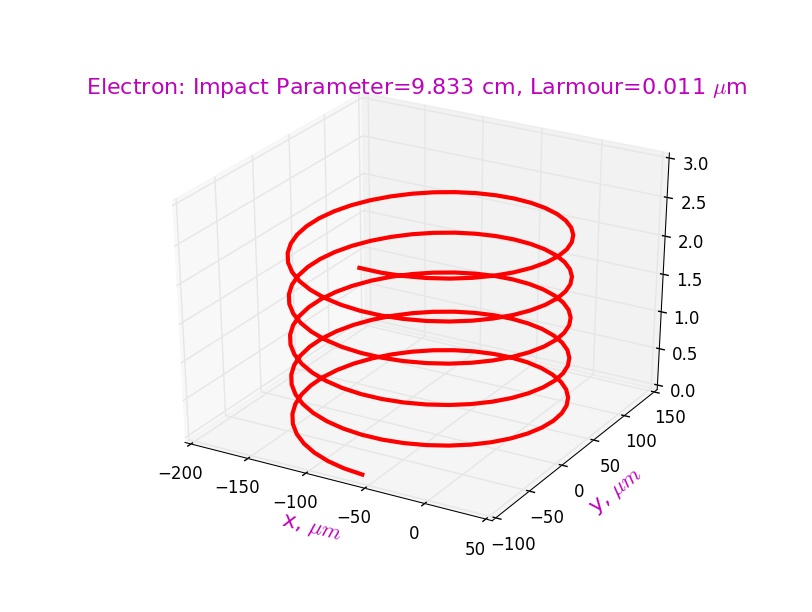
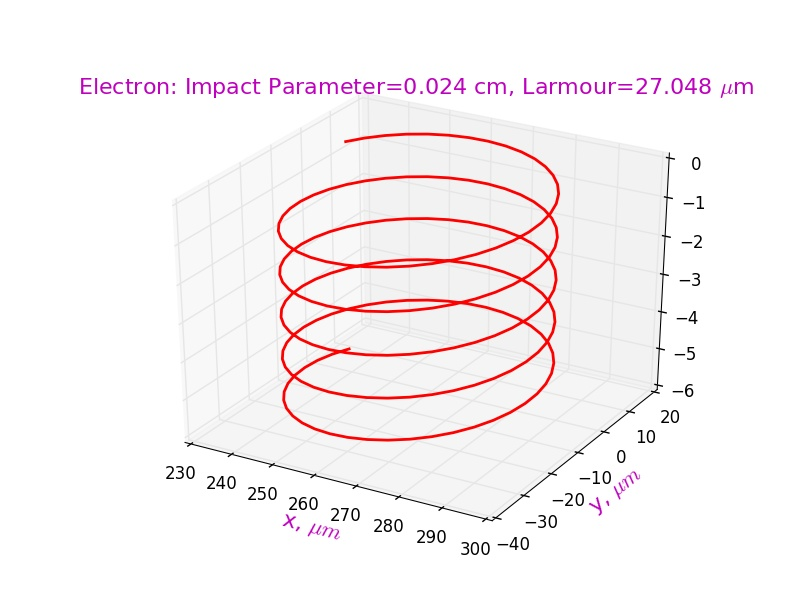
Update files at 07/28/2017

diff --git a/rsfriction/fricrionForce_YuE/scripts/frictionForce_LieOperatorsApproach.py b/rsfriction/fricrionForce_YuE/scripts/frictionForce_LieOperatorsApproach.py
@@ -108,6 +108,9 @@ print '<ro_larm> = %e cm' % ro_larm
 omega_e=np.sqrt(4*pi*n_eBeam*q_elec**2/m_elec)            # rad/sec
 print 'omega_e = %e rad/sec' % omega_e
 
+#
+# 2D marices for all electrons and ions:
+#
 z_elec=np.zeros((6,numb_e)) # z_elec(6,:) is a vector: x_e,px_e,y_e,py_e,z_e,pz_e for each electron
 z_ion=np.zeros((6,numb_p))  # z_ion(6,:)  is a vector: x_i,px_i,y_i,py_i,z_i,pz_i for each proton
 
@@ -115,8 +118,10 @@ z_ion=np.zeros((6,numb_p))  # z_ion(6,:)  is a vector: x_i,px_i,y_i,py_i,z_i,pz_
 # Initial uniform distribution of the electron's impact parameter (1D array):
 #
 impctPar = np.random.uniform(high=a_eBeam,size=numb_e)    # cm
+# print 'impctPar: ',impctPar
 
-avr_impctPar=1.e+4*impctPar.mean()
+avr_impctPar=1.e+4*impctPar.mean()                        # mkm
+print 'avr_impctPar: ',avr_impctPar
 
 # Verifying of distribution:
 plt.figure(10)
@@ -147,6 +152,12 @@ plt.ylim([np.min(z_elec[Iy,:]),np.max(z_elec[Iy,:])])
 plt.grid(True)
 plt.axes().set_aspect('equal')
 
+#
+# Initial position of electrons: x=impactParameter, y=0:
+#
+for i in range(numb_e):
+   z_elec[Ix,i]=impctPar[i]                                 # cm
+   z_elec[Iy,i]=0.                                          # cm
 #
 # Initial gaussian distributions of the relative transverse electron's velocities 
 #
@@ -214,8 +225,8 @@ for ne in range(numb_e):
    rhoLarm[ne]=1.e+4*rmsV_eTran*np.sqrt(z_elec[Ipx,ne]**2+z_elec[Ipy,ne]**2)/Omega_e     # mkm
    L_intrcn[ne]=2.*impctPar[ne]*tangAlpha                               # length of interaraction, cm
    tol[ne]=L_intrcn[ne]/np.abs((z_elec[Ipz,ne]*rmsV_eLong-shiftV_e))    # time of flight for, sec
-   trnsNmbr[ne]=int(tol[ne]/T_larm)                                # number of Larmour turns
-   stpsNmbr[ne]=int(tol[ne]/timeStep)                              # total number of steps
+   trnsNmbr[ne]=int(tol[ne]/T_larm)                                     # number of Larmour turns
+   stpsNmbr[ne]=int(tol[ne]/timeStep)                                   # total number of steps
 # for ne in range(numb_e):
 #    print 'trnsNmbr: %d' % trnsNmbr[ne]
 
@@ -257,11 +268,11 @@ neSlctd=-1
 neSkppd=-1
 for ne in range(numb_e):
    if 100 < trnsNmbr[ne] < upperTurns:
-      neSlctd +=1
+      neSlctd=neSlctd+1
       trnsNmbrSpec[neSlctd]=trnsNmbr[ne]
       indxTrns[neSlctd]=ne
    else:
-      neSkppd +=1
+      neSkppd=+11
       indxSkppd[neSkppd]=ne
 
 maxTrnsSpec=np.max(trnsNmbrSpec[1:neSlctd])
@@ -381,53 +392,74 @@ def draggCollision(deltaT,z_i,z_e):
 
 # plt.show()   
 
+"""
+#################################################################
 #
-# Dragging all selected electrons near each protons:
-#
-
-zInit_ion=np.zeros(6)
-zInit_elec=np.zeros(6)
+#         Start of my debugging !!!
 #
 # To draw trajectory of electron:
 #
+zInit_ion=np.zeros(6)
+zInit_elec=np.zeros(6)
+timeTrack=np.zeros(201)
 zFin_ion=np.zeros((6,201))
 zFin_elec=np.zeros((6,201))
 for np in range(1):                                    # range(numb_p) 
    zInit_ion[:]=z_ion[:,np]
-   print 'Dimension of zInit_ion=',zInit_ion.shape
    for ne in range(1):                                 # range(neSlctd)
       neCrnt=indxTrns[ne]  
       zInit_elec[:]=z_elec[:,neCrnt]
-#       rhoCrnt=rhoLarm[neCrnt]                                 # mkm
-#       lenghtInt=L_intrcn[neCrnt]                              # length of interaraction, cm
+      rhoCrnt=rhoLarm[neCrnt]                                 # mkm
+      lenghtInt=L_intrcn[neCrnt]                              # length of interaraction, cm
       tolCrnt=tol[neCrnt]                                     # time of flight for, sec
       turnsCrnt=trnsNmbr[neCrnt]                              # number of Larmour turns
       stepsCrnt=stpsNmbr[neCrnt]                              # total number of steps
-      print 'For %d: T_larm=%e, timeStep=%e, tol=%e,trnsNmbr=%d, stpsNmbr=%d' % \
-            (neCrnt,T_larm,timeStep,tolCrnt,turnsCrnt,stepsCrnt) 
-      z_ion=zInit_ion.copy()
-      z_elec=zInit_elec.copy()
-      zFin_ion[:,0]=z_ion.copy()
-      zFin_elec[:,0]=z_elec.copy()
+      vel=(float(zInit_elec[Ipx]**2)+float(zInit_elec[Ipy]**2))/m_elec**2
+      print 'For %d: rho=%e, vel2=%e, T_larm=%e, timeStep=%e, tol=%e,trnsNmbr=%d, stpsNmbr=%d' % \
+            (neCrnt,rhoCrnt,vel,T_larm,timeStep,tolCrnt,turnsCrnt,stepsCrnt) 
+      z_ion_crnt=zInit_ion.copy()
+      z_elec_crnt=zInit_elec.copy()
+      zFin_ion[:,0]==zInit_ion.copy()
+      zFin_elec[:,0]=zInit_elec.copy()
+#       print 'ze=',zFin_elec[:,0]
       matr_ion=driftMatrix(M_ion,.5*timeStep)
       matr_elec=solenoid_eMatrix(B_mag,.5*timeStep)
       for step in range(200):                           # range(stepsCrnt)
-         z_ion=matr_ion.dot(z_ion)
-	 z_elec=matr_elec.dot(z_elec)
-         z_ion,z_elec=draggCollision(timeStep,z_ion,z_elec)
-         z_ion=matr_ion.dot(z_ion)
-	 z_elec=matr_elec.dot(z_elec)
-         zFin_ion[:,step+1]=z_ion.copy()
-         zFin_elec[:,step+1]=z_elec.copy()
+         z_ion_crnt=matr_ion.dot(z_ion_crnt)
+	 z_elec_crnt=matr_elec.dot(z_elec_crnt)
+         z_ion_crnt,z_elec_crnt=draggCollision(timeStep,z_ion_crnt,z_elec_crnt)
+         z_ion_crnt=matr_ion.dot(z_ion_crnt)
+	 z_elec_crnt=matr_elec.dot(z_elec_crnt)
+         zFin_ion[:,step+1]=z_ion_crnt.copy()
+         zFin_elec[:,step+1]=z_elec_crnt.copy()
+	 timeTrack[step+1]=timeTrack[step]+timeStep
 
-print 'Dimension of zFin_elec, zFin_ion=',(zFin_elec.shape,zFin_ion.shape)
+# print 'Dimension of zFin_elec, zFin_ion=',(zFin_elec.shape,zFin_ion.shape)
+
+# print 'ze_i=',zFin_elec[:,0]
+# print 'ze_f=',zFin_elec[:,199]
+# print 'xe(t)=',zFin_elec[Ix,:]
+# print 'ye(t)=',zFin_elec[Iy,:]
+zFin_elec_x=[]
+zFin_elec_y=[]
+zFin_elec_x=1.e+4*zFin_elec[Ix,:]
+zFin_elec_y=1.e+4*zFin_elec[Iy,:]
+zFin_elec_z=1.e+4*zFin_elec[Iz,:]
+# print 't=',timeTrack
+# print 'x=',zFin_elec_x
+# print 'y=',zFin_elec_y
+# print 'z=',zFin_elec_z
+# dx=1.e+4*(np.max(zFin_elec_x)-np.min(zFin_elec_x))
+# dy=1.e+4*(np.max(zFin_elec_y)-np.min(zFin_elec_y))
+
+# print 'dx,dy: ',(dx,dy)
 
 fig100=plt.figure(100)
 ax100=fig100.gca(projection='3d')
-ax100.plot(1.e+4*zFin_elec[Ix,:],1.e+4*zFin_elec[Iy,:],1.e+4*zFin_elec[Iz,:],'-r',linewidth=3)
+ax100.plot(1.e+4*zFin_elec[Ix,:],1.e+4*zFin_elec[Iy,:],1.e+4*zFin_elec[Iz,:],'-r',linewidth=2)
 plt.hold(True)
 plt.title(('Electron: Impact Parameter=%5.3f cm, Larmour=%5.3f $\mu$m' \
-           % (rhoLarm[indxTrns[0]],impctPar[indxTrns[0]])), color='m',fontsize=16)
+           % (impctPar[indxTrns[0]],rhoLarm[indxTrns[0]])), color='m',fontsize=16)
 plt.xlabel('x, $\mu m$',color='m',fontsize=16)
 plt.ylabel('y, $\mu m$',color='m',fontsize=16)
 # plt.zlabel('z, $\mu m$',color='m',fontsize=16)
@@ -436,8 +468,95 @@ plt.ylabel('y, $\mu m$',color='m',fontsize=16)
 # ax100.text(-3.35,100,-483,'Larmor Center',color='b',fontsize=16)
 # ax100.zaxis.label.set_color('magenta')
 # ax100.zaxis.label.set_fontsize(16)
+
+# fig110=plt.figure(110)
+# plt.plot(timeElpsd,1.e+4*zFin_elec[Ix,:],'-r')
    
+# fig120=plt.figure(120)
+# plt.plot(timeElpsd,1.e+4*zFin_elec[Iy,:],'-r')
+#
+#         End of my debugging !!!
+#
+#################################################################
+
+"""   
+#
+# 3D array for coordinate-vectors of all electons for all time step:
+#
+# particles=array[[(xe,pxe,ye,pye,ze,pze)],[number of step],[number of electron]]
+#
+particles=np.zeros((6,numb_e,5))
+cpuTime_p=np.zeros(numb_p)
+cpuTime_e=np.zeros(numb_e)
+elpsdTime_p=np.zeros(numb_p)
+elpsdTime_e=np.zeros(numb_e)
+#
+# Dragging all selected electrons near each protons:
+#
+timeTrack=np.zeros(100000)
+for np in range(1):                                    # range(numb_p): 
+   for ne in range(5):                                 # range(neSlctd):
+      timeStart=os.times()
+      neCrnt=indxTrns[ne]  
+      rhoCrnt=rhoLarm[neCrnt]                                 # mkm
+      lenghtInt=L_intrcn[neCrnt]                              # length of interaraction, cm
+      tolCrnt=tol[neCrnt]                                     # time of flight for, sec
+      turnsCrnt=trnsNmbr[neCrnt]                              # number of Larmour turns
+      stepsCrnt=stpsNmbr[neCrnt]                              # total number of steps
+      vel=(float(z_elec[Ipx,neCrnt]**2)+float(z_elec[Ipy,neCrnt]**2))/m_elec**2
+      print 'For %d: rho=%e, vel2=%e, T_larm=%e, timeStep=%e, tol=%e,trnsNmbr=%d, stpsNmbr=%d' % \
+            (neCrnt,rhoCrnt,vel,T_larm,timeStep,tolCrnt,turnsCrnt,stepsCrnt) 
+      z_ion_crnt=z_ion[:,np]
+      z_elec_crnt=z_elec[:,neCrnt]
+      zFin_ion=[z_ion]
+      zFin_elec=[z_elec]
+      zFin_ion.append(z_ion_crnt)
+      zFin_elec.append(z_elec_crnt)
+      zFin_ion.append(z_ion_crnt)
+      zFin_elec.append(z_elec_crnt)
+      matr_ion=driftMatrix(M_ion,.5*timeStep)
+      matr_elec=solenoid_eMatrix(B_mag,.5*timeStep)
+      for step in range(1000):                    #range(stepsCrnt):
+         z_ion_crnt=matr_ion.dot(z_ion_crnt)
+	 z_elec_crnt=matr_elec.dot(z_elec_crnt)
+         z_ion_crnt,z_elec_crnt=draggCollision(timeStep,z_ion_crnt,z_elec_crnt)
+         z_ion_crnt=matr_ion.dot(z_ion_crnt)
+	 z_elec_crnt=matr_elec.dot(z_elec_crnt)
+         zFin_ion.append(z_ion_crnt)
+         zFin_elec.append(z_elec_crnt)
+	 timeTrack[step+1]=timeTrack[step]+timeStep
+         particles[:,step,ne]=zFin_elec[step+1]
+      timeEnd=os.times()
+      cpuTime_e[ne]   +=float(timeEnd[0])-float(timeStart[0])     # CPU time for electron
+      elpsdTime_e[ne] +=float(timeEnd[4])-float(timeStart[4])     # elapsed real time for electron
+      cpuTime_p[np]   +=cpuTime_e[ne]                             # CPU time for proton
+      elpsdTime_p[np] +=elpsdTime_e[ne]                           # elapsed real time for proton
+
+print 'cpuTime(for electrons): ',cpuTime_e[0:4]
+print 'elapsedTime(for electrons): ',elpsdTime_e[0:4]
+print 'cpuTime(for protons): ',cpuTime_p[0]
+print 'elapsedTime(for protons): ',elpsdTime_p[0]
+
+fig90=plt.figure(90)
+ax90=fig90.gca(projection='3d')
+ax90.plot(1.e+4*particles[Ix,0:200,0],1.e+4*particles[Iy,0:200,0],1.e+4*particles[Iz,0:200,0],'-r', \
+          linewidth=2)
+plt.hold(True)
+for k in range(4):
+   ax90.plot(1.e+4*particles[Ix,0:200,k+1],1.e+4*particles[Iy,0:200,k+1],1.e+4*particles[Iz,0:200,k+1],'-r', \
+          linewidth=2)
+# plt.title(('Electron: Impact Parameter=%5.3f cm, Larmour=%5.3f $\mu$m' \
+#            % (impctPar[indxTrns[1]],rhoLarm[indxTrns[1]])), color='m',fontsize=16)
+plt.xlabel('x, $\mu m$',color='m',fontsize=16)
+plt.ylabel('y, $\mu m$',color='m',fontsize=16)
+
+
 plt.show()   
 
 sys.exit()   
 
+#       print 'z_elec[:,0]: ',z_elec[:,0] 
+#       type_zFin_elec=isinstance(zFin_elec,list)
+#       print 'type_zFin_elec=list: ',type_zFin_elec 
+#       type_zFin_elec=isinstance(zFin_elec,tuple)
+#       print 'type_zFin_elec=tuple: ',type_zFin_elec 
